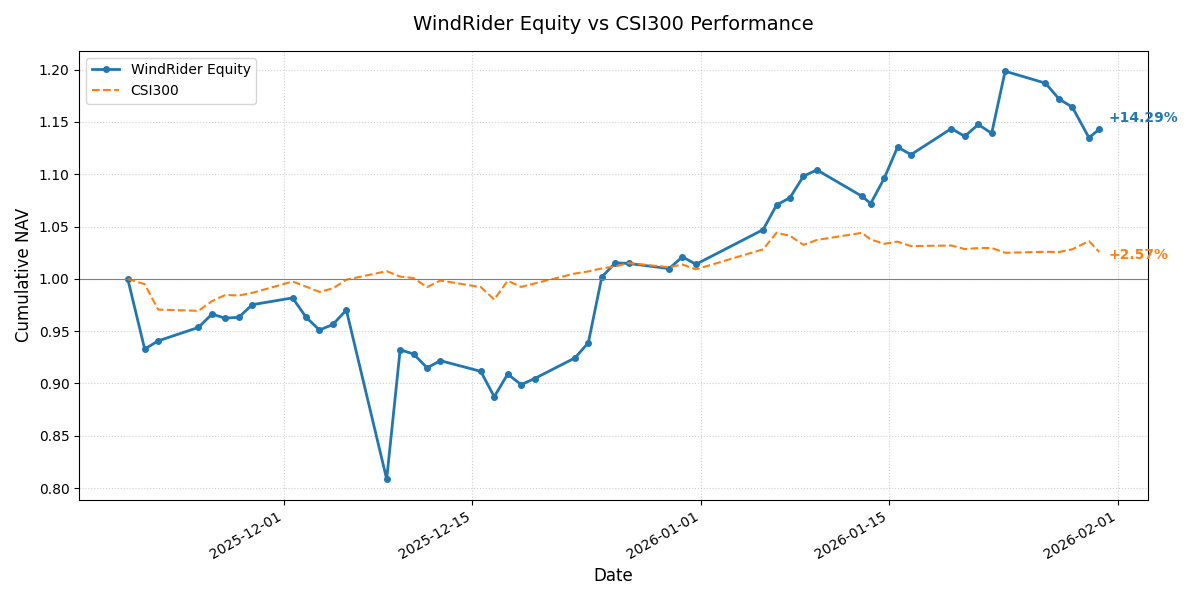
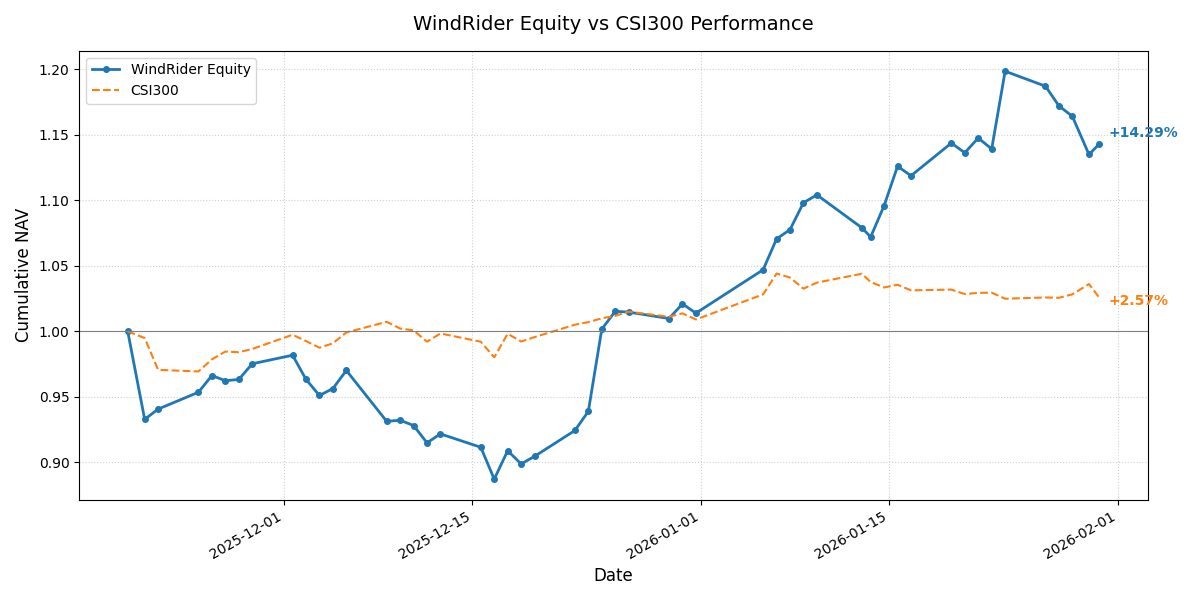
Updated Hugo site content

diff --git a/public/investment/position/index.html b/public/investment/position/index.html
@@ -66,8 +66,8 @@
   <meta property="og:locale" content="zh-cn">
   <meta property="og:type" content="article">
     <meta property="article:section" content="investment">
-    <meta property="article:published_time" content="2026-01-29T20:54:39+08:00">
-    <meta property="article:modified_time" content="2026-01-29T20:54:39+08:00">
+    <meta property="article:published_time" content="2026-01-31T15:17:14+08:00">
+    <meta property="article:modified_time" content="2026-01-31T15:17:14+08:00">
 <meta name="twitter:card" content="summary">
 <meta name="twitter:title" content="持仓 Position">
 <meta name="twitter:description" content="WindRider Stock Portfolio">
@@ -103,11 +103,11 @@
   "keywords": [
     
   ],
-  "articleBody": " 风舵股票组合 /// 每日持仓 WindRider Equity Portfolio 净值简报 (截至: 2026-01-29)\n指数代码： WDR.EQ 成立日期： 2025-11-19 最新净值： 1.1349 今日涨跌： -2.50% ===========================\n核心表现 累计收益： +13.49% 年化收益： +91.66% 最大回撤： -5.30% 基准点位： 4753.87 (CSI300) 策略状态： 已运行 72 天 持仓明细 股票名称 成本价 现价 盈亏 占比 先导智能 300450 49.41 56.34 +14.02% 49.03% 新 和 成 002001 24.77 28.14 +13.59% 48.98% 收益率对比曲线 声明：本页面数据为实盘记录，持仓数据每日收盘后更新。\n数据仅供技术交流，不构成投资建议。\n",
+  "articleBody": " 风舵股票组合 /// 每日持仓 WindRider Equity Portfolio 净值简报 (截至: 2026-01-30)\n指数代码： WDR.EQ 成立日期： 2025-11-19 最新净值： 1.1429 今日涨跌： +0.70% ===========================\n核心表现 累计收益： +14.29% 年化收益： +96.82% 最大回撤： -19.14% 基准点位： 4706.34 (CSI300) 策略状态： 已运行 73 天 持仓明细 股票名称 成本价 现价 盈亏 占比 先导智能 300450 50.36 57.71 +14.59% 49.87% 新 和 成 002001 24.84 27.86 +12.17% 48.15% 收益率对比曲线 声明：本页面数据为实盘记录，持仓数据每日收盘后更新。\n数据仅供技术交流，不构成投资建议。\n",
   "wordCount" : "55",
   "inLanguage": "zh-cn",
-  "datePublished": "2026-01-29T20:54:39+08:00",
-  "dateModified": "2026-01-29T20:54:39+08:00",
+  "datePublished": "2026-01-31T15:17:14+08:00",
+  "dateModified": "2026-01-31T15:17:14+08:00",
   "mainEntityOfPage": {
     "@type": "WebPage",
     "@id": "https://hankou.com/investment/position/"
@@ -191,7 +191,7 @@
     <div class="post-description">
       WindRider Stock Portfolio
     </div>
-    <div class="post-meta"><span title='2026-01-29 20:54:39 +0800 CST'>January 29, 2026</span>
+    <div class="post-meta"><span title='2026-01-31 15:17:14 +0800 CST'>January 31, 2026</span>
 
 </div>
   </header> 
@@ -200,7 +200,7 @@
 </style>
 <h3 id="风舵股票组合--每日持仓">风舵股票组合   <span style="color: #E63946; font-weight: bold;">/</span><span style="color: #F1A73E; font-weight: bold;">/</span><span style="color: #000091; font-weight: bold;">/</span>   每日持仓<a hidden class="anchor" aria-hidden="true" href="#风舵股票组合--每日持仓">#</a></h3>
 <p>WindRider Equity Portfolio <br>
-净值简报 <small>(截至: 2026-01-29)</small></p>
+净值简报 <small>(截至: 2026-01-30)</small></p>
 <table>
   <thead>
       <tr>
@@ -219,11 +219,11 @@
       </tr>
       <tr>
           <td style="text-align: left"><strong>最新净值：</strong></td>
-          <td style="text-align: left">1.1349</td>
+          <td style="text-align: left">1.1429</td>
       </tr>
       <tr>
           <td style="text-align: left"><strong>今日涨跌：</strong></td>
-          <td style="text-align: left">-2.50%</td>
+          <td style="text-align: left">+0.70%</td>
       </tr>
   </tbody>
 </table>
@@ -238,23 +238,23 @@
   <tbody>
       <tr>
           <td style="text-align: left"><strong>累计收益：</strong></td>
-          <td style="text-align: left">+13.49%</td>
+          <td style="text-align: left">+14.29%</td>
       </tr>
       <tr>
           <td style="text-align: left"><strong>年化收益：</strong></td>
-          <td style="text-align: left">+91.66%</td>
+          <td style="text-align: left">+96.82%</td>
       </tr>
       <tr>
           <td style="text-align: left"><strong>最大回撤：</strong></td>
-          <td style="text-align: left">-5.30%</td>
+          <td style="text-align: left">-19.14%</td>
       </tr>
       <tr>
           <td style="text-align: left"><strong>基准点位：</strong></td>
-          <td style="text-align: left">4753.87 (CSI300)</td>
+          <td style="text-align: left">4706.34 (CSI300)</td>
       </tr>
       <tr>
           <td style="text-align: left"><strong>策略状态：</strong></td>
-          <td style="text-align: left">已运行 72 天</td>
+          <td style="text-align: left">已运行 73 天</td>
       </tr>
   </tbody>
 </table>
@@ -273,18 +273,18 @@
   <tbody>
       <tr>
           <td style="text-align: left">先导智能 <small>300450</small></td>
-          <td style="text-align: left">49.41</td>
-          <td style="text-align: left">56.34</td>
-          <td style="text-align: left"><span style="color:#E63946">+14.02%</span></td>
-          <td style="text-align: left">49.03%</td>
+          <td style="text-align: left">50.36</td>
+          <td style="text-align: left">57.71</td>
+          <td style="text-align: left"><span style="color:#E63946">+14.59%</span></td>
+          <td style="text-align: left">49.87%</td>
           <td></td>
       </tr>
       <tr>
           <td style="text-align: left">新 和 成 <small>002001</small></td>
-          <td style="text-align: left">24.77</td>
-          <td style="text-align: left">28.14</td>
-          <td style="text-align: left"><span style="color:#E63946">+13.59%</span></td>
-          <td style="text-align: left">48.98%</td>
+          <td style="text-align: left">24.84</td>
+          <td style="text-align: left">27.86</td>
+          <td style="text-align: left"><span style="color:#E63946">+12.17%</span></td>
+          <td style="text-align: left">48.15%</td>
           <td></td>
       </tr>
   </tbody>

diff --git a/public/investment/windrider-1/index.html b/public/investment/windrider-1/index.html
@@ -66,8 +66,8 @@
   <meta property="og:locale" content="zh-cn">
   <meta property="og:type" content="article">
     <meta property="article:section" content="investment">
-    <meta property="article:published_time" content="2026-01-29T20:31:08+08:00">
-    <meta property="article:modified_time" content="2026-01-29T20:31:08+08:00">
+    <meta property="article:published_time" content="2026-01-30T15:15:04+08:00">
+    <meta property="article:modified_time" content="2026-01-30T15:15:04+08:00">
 <meta name="twitter:card" content="summary">
 <meta name="twitter:title" content="风舵1号 (WindRider I)  /// 指数">
 <meta name="twitter:description" content="商品期货分形摆动策略实盘">
@@ -103,11 +103,11 @@
   "keywords": [
     
   ],
-  "articleBody": " 风舵1号 (WindRider I) /// 指数 商品期货分形摆动策略实盘\n净值简报 (截至: 2026-01-29)\n指数代码： WDR1.CTA 起步日期： 2026-01-06 最新净值： 0.5366 今日涨跌： -7.80% ===========================\n核心指标 累计涨跌： -46.34% 年化收益： -99.99% 最大回撤： -49.85% 卡玛比率： -2.01 策略状态： 已运行 24 天 净值曲线图 声明：本页面数据为实盘记录，持仓数据每日收盘后更新。\n数据仅供技术交流，不构成投资建议。\n",
+  "articleBody": " 风舵1号 (WindRider I) /// 指数 商品期货分形摆动策略实盘\n净值简报 (截至: 2026-01-30)\n指数代码： WDR1.CTA 起步日期： 2026-01-06 最新净值： 0.6190 今日涨跌： +15.36% ===========================\n核心指标 累计涨跌： -38.10% 年化收益： -99.93% 最大回撤： -49.85% 卡玛比率： -2.00 策略状态： 已运行 25 天 净值曲线图 声明：本页面数据为实盘记录，持仓数据每日收盘后更新。\n数据仅供技术交流，不构成投资建议。\n",
   "wordCount" : "34",
   "inLanguage": "zh-cn",
-  "datePublished": "2026-01-29T20:31:08+08:00",
-  "dateModified": "2026-01-29T20:31:08+08:00",
+  "datePublished": "2026-01-30T15:15:04+08:00",
+  "dateModified": "2026-01-30T15:15:04+08:00",
   "mainEntityOfPage": {
     "@type": "WebPage",
     "@id": "https://hankou.com/investment/windrider-1/"
@@ -191,7 +191,7 @@
     <div class="post-description">
       商品期货分形摆动策略实盘
     </div>
-    <div class="post-meta"><span title='2026-01-29 20:31:08 +0800 CST'>January 29, 2026</span>
+    <div class="post-meta"><span title='2026-01-30 15:15:04 +0800 CST'>January 30, 2026</span>
 
 </div>
   </header> 
@@ -203,7 +203,7 @@
 </style>
 <h3 id="风舵1号-windrider-i--指数">风舵1号 (WindRider I)   <span style="color: #E63946; font-weight: bold;">/</span><span style="color: #F1A73E; font-weight: bold;">/</span><span style="color: #000091; font-weight: bold;">/</span>   指数<a hidden class="anchor" aria-hidden="true" href="#风舵1号-windrider-i--指数">#</a></h3>
 <p>商品期货分形摆动策略实盘<br>
-净值简报 <small>(截至: 2026-01-29)</small></p>
+净值简报 <small>(截至: 2026-01-30)</small></p>
 <table>
   <thead>
       <tr>
@@ -222,11 +222,11 @@
       </tr>
       <tr>
           <td style="text-align: left"><strong>最新净值：</strong></td>
-          <td style="text-align: left">0.5366</td>
+          <td style="text-align: left">0.6190</td>
       </tr>
       <tr>
           <td style="text-align: left"><strong>今日涨跌：</strong></td>
-          <td style="text-align: left">-7.80%</td>
+          <td style="text-align: left">+15.36%</td>
       </tr>
   </tbody>
 </table>
@@ -241,11 +241,11 @@
   <tbody>
       <tr>
           <td style="text-align: left"><strong>累计涨跌：</strong></td>
-          <td style="text-align: left">-46.34%</td>
+          <td style="text-align: left">-38.10%</td>
       </tr>
       <tr>
           <td style="text-align: left"><strong>年化收益：</strong></td>
-          <td style="text-align: left">-99.99%</td>
+          <td style="text-align: left">-99.93%</td>
       </tr>
       <tr>
           <td style="text-align: left"><strong>最大回撤：</strong></td>
@@ -253,11 +253,11 @@
       </tr>
       <tr>
           <td style="text-align: left"><strong>卡玛比率：</strong></td>
-          <td style="text-align: left">-2.01</td>
+          <td style="text-align: left">-2.00</td>
       </tr>
       <tr>
           <td style="text-align: left"><strong>策略状态：</strong></td>
-          <td style="text-align: left">已运行 24 天</td>
+          <td style="text-align: left">已运行 25 天</td>
       </tr>
   </tbody>
 </table>

diff --git a/public/investment/index.html b/public/investment/index.html
@@ -152,7 +152,7 @@
   <div class="entry-content">
     <p>主动管理型股票组合。对标沪深300指数，采用基本面选股策略。</p>
   </div>
-  <footer class="entry-footer"><span title='2026-01-29 20:54:39 +0800 CST'>January 29, 2026</span></footer>
+  <footer class="entry-footer"><span title='2026-01-31 15:17:14 +0800 CST'>January 31, 2026</span></footer>
   <a class="entry-link" aria-label="post link to 持仓 Position" href="https://hankou.com/investment/position/"></a>
 </article>
 
@@ -164,7 +164,7 @@
   <div class="entry-content">
     <p>商品期货分形摆动策略，实盘最新净值与核心风险指标。</p>
   </div>
-  <footer class="entry-footer"><span title='2026-01-29 20:31:08 +0800 CST'>January 29, 2026</span></footer>
+  <footer class="entry-footer"><span title='2026-01-30 15:15:04 +0800 CST'>January 30, 2026</span></footer>
   <a class="entry-link" aria-label="post link to 风舵1号 (WindRider I)  /// 指数" href="https://hankou.com/investment/windrider-1/"></a>
 </article>
 

diff --git a/content/investment/position.md b/content/investment/position.md
@@ -1,8 +1,8 @@
 +++
 title = "持仓 Position"
 summary = "主动管理型股票组合。对标沪深300指数，采用基本面选股策略。"
-date = 2026-01-31T15:17:14+08:00
-lastmod = 2026-01-31T15:17:14+08:00
+date = 2026-01-31T15:22:59+08:00
+lastmod = 2026-01-31T15:22:59+08:00
 draft = false
 description = "WindRider Stock Portfolio"
 +++
@@ -27,7 +27,7 @@ WindRider Equity Portfolio <br>
 | :--- | :--- |
 | **累计收益：** | +14.29% |
 | **年化收益：** | +96.82% |
-| **最大回撤：** | -19.14% |
+| **最大回撤：** | -11.27% |
 | **基准点位：** | 4706.34 (CSI300) |
 | **策略状态：** | 已运行 73 天 |
 
